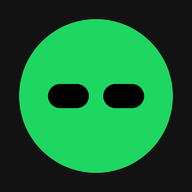
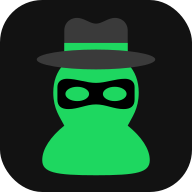
Ganti ikon merek menjadi sosok penyusup bertopi dan bertopeng
Favicon, ikon aplikasi (termasuk versi maskable) dan logo beranda kini memakai sosok penyusup hijau yang sama dengan ilustrasi. Tautan ikon diberi ?v=2 agar cache lama diperbarui.

diff --git a/components/ui.tsx b/components/ui.tsx
@@ -14,13 +14,17 @@ export const JUDUL_MENANG: Record<Pemenang, string> = {
   mrwhite: 'Mr. White menang!',
 };
 
-/** Tanda merek: lingkaran hijau dengan topeng mata. */
+/** Tanda merek: sosok penyusup hijau bertopi fedora dan bertopeng, sama dengan ilustrasi beranda dan favicon. */
 export function Tanda({ ukuran = 28 }: { ukuran?: number }) {
   return (
-    <svg className="tanda" width={ukuran} height={ukuran} viewBox="0 0 32 32" aria-hidden focusable="false">
-      <circle cx="16" cy="16" r="16" fill="#1ed760" />
-      <rect x="6" y="13.5" width="8.5" height="5" rx="2.5" fill="#000" />
-      <rect x="17.5" y="13.5" width="8.5" height="5" rx="2.5" fill="#000" />
+    <svg className="tanda" width={ukuran} height={ukuran} viewBox="2.75 4.5 58.5 58.5" aria-hidden focusable="false">
+      <path fill="#1ed760" d="M32 18C42.5 18 47.5 24.5 47.5 32.5C47.5 38.5 45 41.5 43.5 44.5C48.5 48.5 51.5 53 51.5 57C51.5 61.5 47 62.5 32 62.5C17 62.5 12.5 61.5 12.5 57C12.5 53 15.5 48.5 20.5 44.5C19 41.5 16.5 38.5 16.5 32.5C16.5 24.5 21.5 18 32 18Z" />
+      <path fill="#000" d="M18 30.5C18 28.5 19.5 27.5 21.5 27.5C25 27.5 28.5 29 32 29C35.5 29 39 27.5 42.5 27.5C44.5 27.5 46 28.5 46 30.5V35C46 37.5 44.5 38.5 42 38.5C38.5 38.5 35.5 36.8 32 36.8C28.5 36.8 25.5 38.5 22 38.5C19.5 38.5 18 37.5 18 35Z" />
+      <ellipse fill="#1ed760" cx="25.2" cy="33" rx="4.3" ry="2.6" />
+      <ellipse fill="#1ed760" cx="38.8" cy="33" rx="4.3" ry="2.6" />
+      <path fill="#3a3a3a" d="M20.5 20V10C20.5 7 23 5 26 5.5C28.5 6 30 7.5 32 7.5C34 7.5 35.5 6 38 5.5C41 5 43.5 7 43.5 10V20Z" />
+      <rect fill="#1ed760" x="20.5" y="14.5" width="23" height="4.5" />
+      <ellipse fill="#3a3a3a" cx="32" cy="20.5" rx="21.5" ry="3.6" />
     </svg>
   );
 }

diff --git a/app/layout.tsx b/app/layout.tsx
@@ -10,14 +10,16 @@ const BASE = process.env.NEXT_PUBLIC_BASE_PATH ?? '';
 export const metadata: Metadata = {
   title: 'Undercover: Tebak Kata',
   description: 'Game tebak kata Undercover: main online dengan HP masing-masing atau bergiliran dalam satu HP. Tanpa login, tanpa server game.',
-  manifest: `${BASE}/manifest.webmanifest`,
+  manifest: `${BASE}/manifest.webmanifest?v=2`,
+  // ?v=2 memaksa peramban memuat ulang ikon lama yang tersimpan di cache.
   icons: {
     icon: [
-      { url: `${BASE}/favicon.ico`, sizes: '16x16 32x32 48x48' },
-      { url: `${BASE}/icon.svg`, type: 'image/svg+xml' },
+      { url: `${BASE}/favicon.ico?v=2`, sizes: '16x16 32x32 48x48' },
+      { url: `${BASE}/icon.svg?v=2`, type: 'image/svg+xml' },
     ],
-    apple: { url: `${BASE}/apple-touch-icon.png`, sizes: '180x180' },
+    apple: { url: `${BASE}/apple-touch-icon.png?v=2`, sizes: '180x180' },
   },
+
   appleWebApp: { capable: true, title: 'Undercover', statusBarStyle: 'black-translucent' },
 };
 
